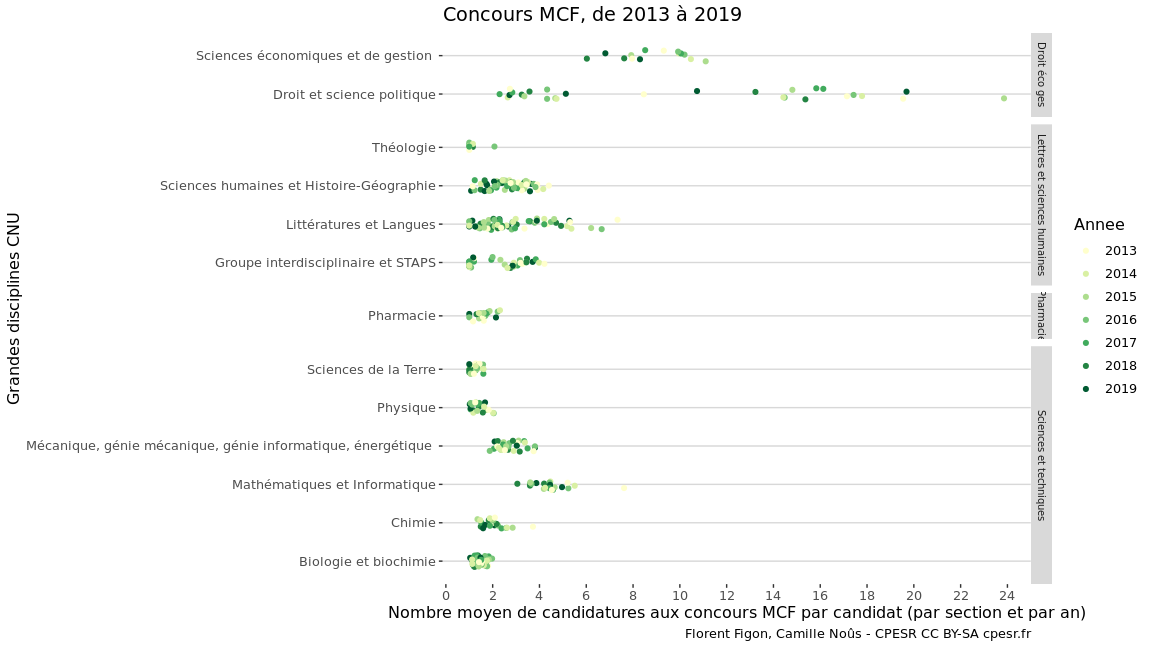
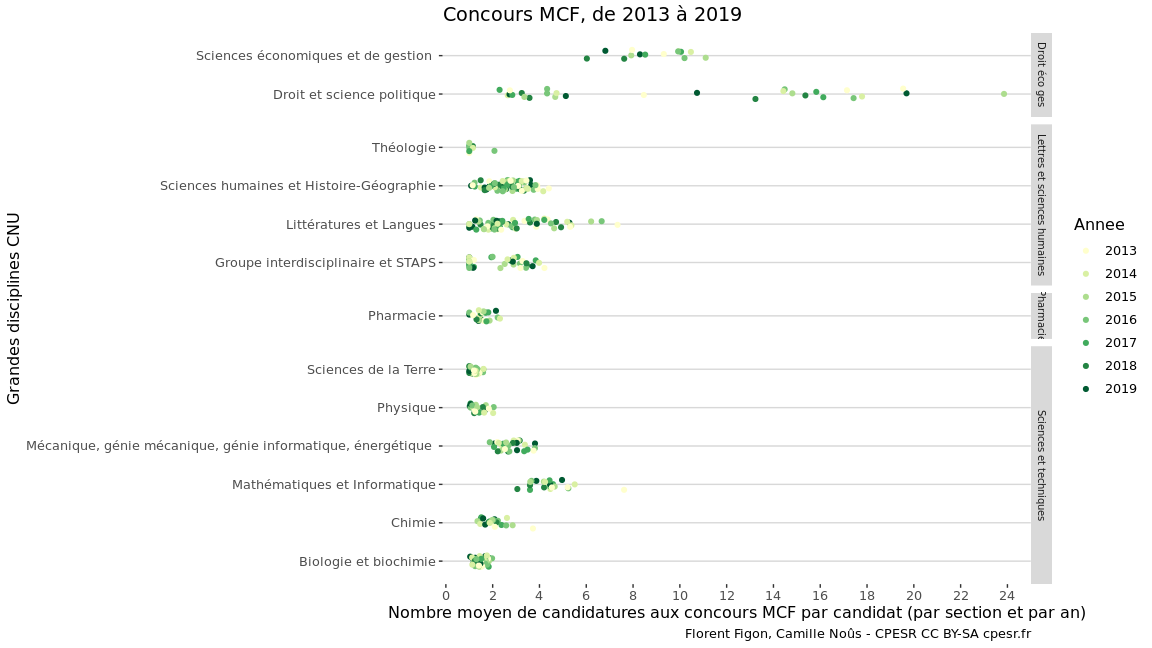
Candidaturs par poste

diff --git a/ConcoursMCF/ConcoursMCF.md b/ConcoursMCF/ConcoursMCF.md
@@ -15,15 +15,17 @@ issues](https://github.com/cpesr/RFC/issues).*
 
 <!-- end list -->
 
-    ##  [1] "TypeRecrutement"            "GrandeDisciplineCNU"       
-    ##  [3] "GroupeCNU"                  "SectionCNU"                
-    ##  [5] "SectionCNU.ID"              "Annee"                     
-    ##  [7] "QualificationDossiers.MCF"  "QualificationQualifies.MCF"
-    ##  [9] "PostesPublies.MCF"          "Candidatures.MCF"          
-    ## [11] "Candidats.MCF"              "PostesPourvus.MCF"         
-    ## [13] "Candidatures.MCF.F"         "Candidatures.MCF.H"        
-    ## [15] "Candidats.MCF.F"            "Candidats.MCF.H"           
-    ## [17] "Recrutes.MCF.F"             "Recrutes.MCF.H"
+    ##  [1] "TypeRecrutement"               "GrandeDisciplineCNU"          
+    ##  [3] "GroupeCNU"                     "SectionCNU"                   
+    ##  [5] "SectionCNU.ID"                 "Annee"                        
+    ##  [7] "QualificationDossiers.MCF"     "QualificationQualifies.MCF"   
+    ##  [9] "PostesPublies.MCF"             "Candidatures.MCF"             
+    ## [11] "Candidats.MCF"                 "PostesPourvus.MCF"            
+    ## [13] "Candidatures.MCF.F"            "Candidatures.MCF.H"           
+    ## [15] "Candidats.MCF.F"               "Candidats.MCF.H"              
+    ## [17] "Recrutes.MCF.F"                "Recrutes.MCF.H"               
+    ## [19] "candidatures.par.candidat.MCF" "candidatures.par.poste.MCF"   
+    ## [21] "Code.GrandeDisciplineCNU"
 
   - Période : 2005, 2019
 
@@ -99,3 +101,13 @@ plein de candidatures dans certaines disciplines :
 ### Evolution de 2013 à 2019 par grande discipline
 
 ![](ConcoursMCF_files/figure-gfm/candidatures.par.candidat.MCF.4-1.png)<!-- -->
+
+### Candidats, candidatures et postes
+
+    ## Warning: Using alpha for a discrete variable is not advised.
+
+![](ConcoursMCF_files/figure-gfm/candidats.candidatures.postes-1.png)<!-- -->
+
+![](ConcoursMCF_files/figure-gfm/candidatures.par.poste-1.png)<!-- -->
+
+![](ConcoursMCF_files/figure-gfm/candidatures.par.poste.2-1.png)<!-- -->
